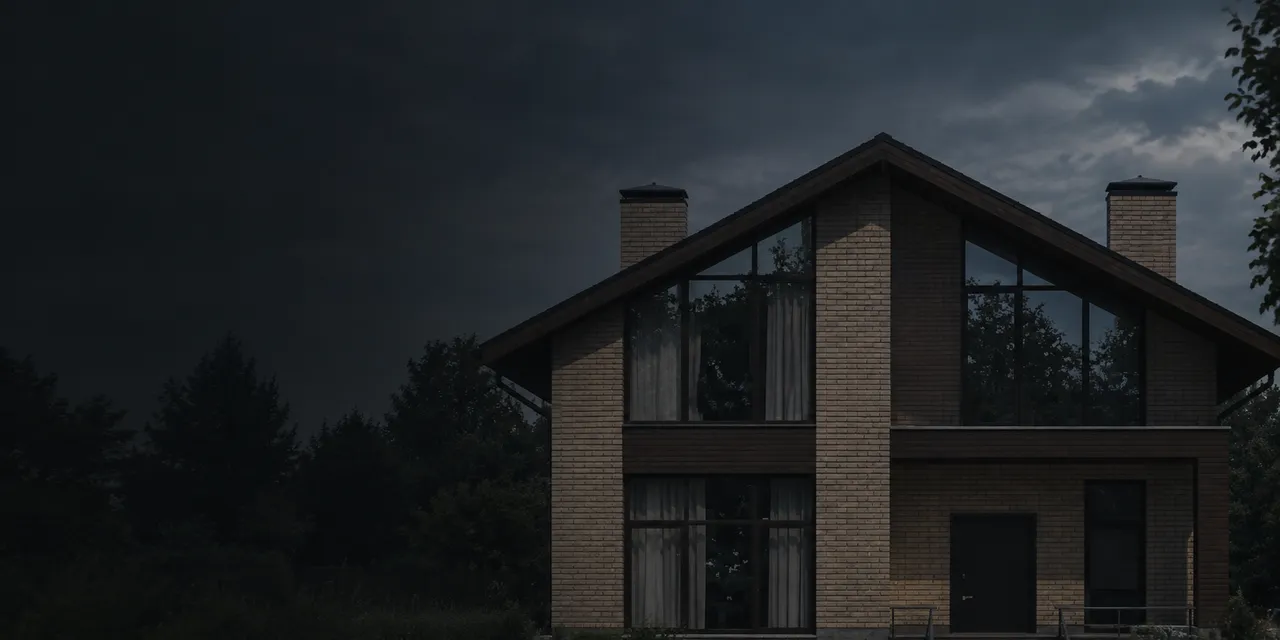
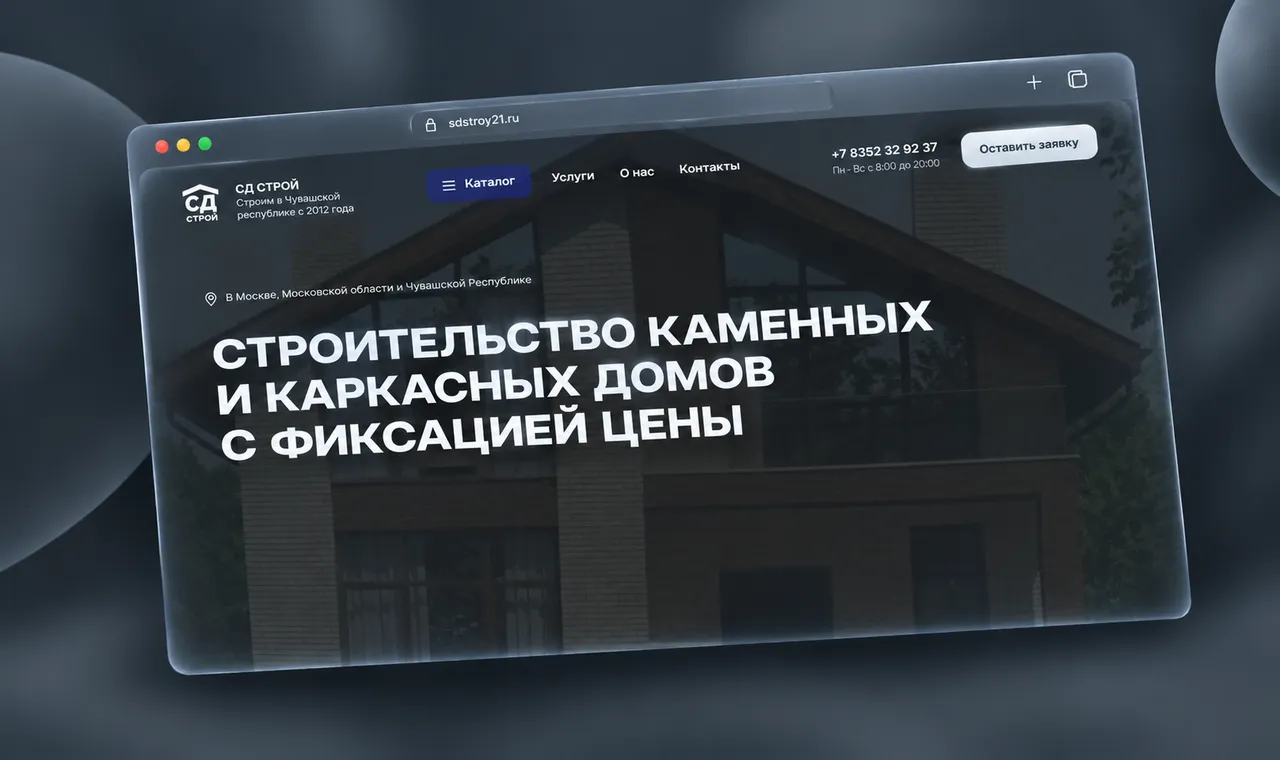
fix some

diff --git a/src/data/blurData.ts b/src/data/blurData.ts
@@ -53,7 +53,7 @@ export const blurData: Record<string, string> = {
[8 lines of base64/hex data omitted]

diff --git a/src/data/portfolio.ts b/src/data/portfolio.ts
@@ -91,8 +91,8 @@ export const portfolio: PortfolioItem[] = [
     accent: "#232e78",
     orientation: "landscape",
     /**
-     * Обложка - кадр первого экрана сайта: дом в сумерках, без интерфейса.
-     * Галерея осталась снимками страниц.
+     * Обложка - отрисованный макет первого экрана: видно и сам сайт, и то,
+     * что на нём обещано. Галерея осталась снимками живых страниц.
      */
     cover: img("sdstroy", "cover.webp"),
     gallery: ["1.webp", "2.webp", "3.webp", "4.webp", "5.webp", "6.webp"].map((f) =>

diff --git a/src/data/imageSizes.ts b/src/data/imageSizes.ts
@@ -60,7 +60,7 @@ export const imageSizes: Record<string, ImageSize> = {
   "/portfolio/sdstroy/4.webp": { width: 1280, height: 838 },
   "/portfolio/sdstroy/5.webp": { width: 1280, height: 813 },
   "/portfolio/sdstroy/6.webp": { width: 1280, height: 724 },
-  "/portfolio/sdstroy/cover.webp": { width: 1280, height: 640 },
+  "/portfolio/sdstroy/cover.webp": { width: 1280, height: 760 },
   "/portfolio/stockity/1.webp": { width: 453, height: 768 },
   "/portfolio/stockity/2.webp": { width: 487, height: 765 },
   "/portfolio/stockity/3.webp": { width: 473, height: 761 },
